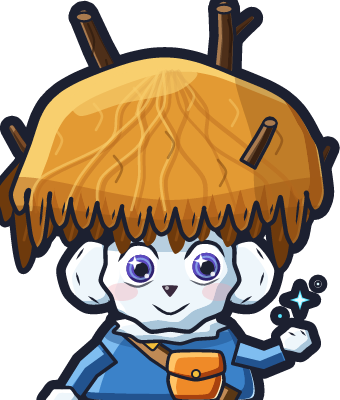
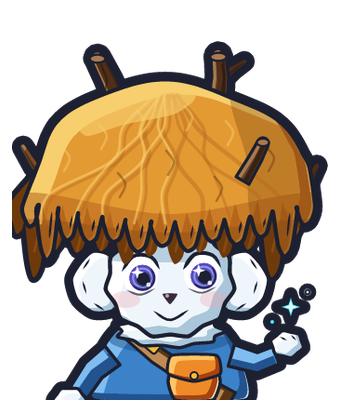
fix(S53): the talk window — the replies sit inside the plate under what is said (they floated over the lobby on the right), no «Página n de m»; the four NPC portraits whole: Aldebrán's sticks and Demon I's wings and Demon III's horn ran past the canvas and showed cut flat (drawn lower / shorter), an

diff --git a/godot/tools/portraits/aldebran_fable.vx.js b/godot/tools/portraits/aldebran_fable.vx.js
@@ -115,9 +115,11 @@ for (let i = 0; i < 9; i++) {
 }
 
 // the sticks: two big branches on top, a stump on the hat's face, twigs on the sides
-const STICK_L = band([[64, 56], [57, 40], [49, 24], [42, 8]], (i, t) => 10.5 - 3 * t)
-const STICK_R = band([[108, 52], [112, 34], [113, 18], [112, 4]], (i, t) => 11 - 3 * t)
-const STICK_RB = band([[112, 22], [120, 14], [126, 9]], (i, t) => 5.5 - 2 * t)      // a side shoot on the right stick
+// S53: the tips end 10-11 units below the canvas top: at y 4-8 their ink ran
+// off the edge and the talk window showed them cut flat
+const STICK_L = band([[64, 56], [58, 42], [52, 28], [46, 16]], (i, t) => 10.5 - 3 * t)
+const STICK_R = band([[108, 52], [111, 38], [112, 26], [111, 15]], (i, t) => 11 - 3 * t)
+const STICK_RB = band([[111, 29], [119, 22], [125, 18]], (i, t) => 5.5 - 2 * t)      // a side shoot on the right stick
 const STUMP = band([[124, 82], [131, 70], [135, 62]], (i, t) => 8 - 2 * t)
 const TWIG_L = band([[22, 84], [12, 74], [6, 64]], (i, t) => 6.5 - 2 * t)
 const TWIG_R = band([[152, 88], [160, 82], [164, 74]], (i, t) => 6 - 2 * t)
@@ -167,15 +169,15 @@ const wood = (P, dir = 1, rim = 1.2) => [
 sprite("aldebran", { w: 164, h: 194, scale: 1, outline: "k", ow: 3 }, tf({ x: -3, y: -3 },
   // ---- behind everything: the sticks that rise out of the hat ----
   ...wood(STICK_L, 1),
-  curve([44, 12, 47, 20, 46, 28], { stroke: "d0", sw: 1.1, opacity: 0.6 }),
-  curve([53, 30, 55, 38], { stroke: "d0", sw: 1.1, opacity: 0.6 }),
+  curve([48, 20, 51, 28, 50, 34], { stroke: "d0", sw: 1.1, opacity: 0.6 }),
+  curve([56, 40, 58, 47], { stroke: "d0", sw: 1.1, opacity: 0.6 }),
   ...wood(STICK_RB, 1, 0.9),
   ...wood(STICK_R, 1),
-  curve([114, 10, 116, 18, 115, 26], { stroke: "d0", sw: 1.1, opacity: 0.6 }),
-  curve([109, 36, 110, 44], { stroke: "d0", sw: 1.1, opacity: 0.6 }),
+  curve([113, 20, 114, 27, 113, 33], { stroke: "d0", sw: 1.1, opacity: 0.6 }),
+  curve([109, 42, 110, 48], { stroke: "d0", sw: 1.1, opacity: 0.6 }),
   // cut ends: a pale ring of fresh wood at the tips
-  ellipse(42, 8.5, 4.2, 2.2, { fill: "d3" }), ellipse(42, 8.5, 4.2, 2.2, EDGE(1.2)),
-  ellipse(112, 4.5, 4.4, 2.2, { fill: "d3" }), ellipse(112, 4.5, 4.4, 2.2, EDGE(1.2)),
+  ellipse(46, 16.5, 4.2, 2.2, { fill: "d3" }), ellipse(46, 16.5, 4.2, 2.2, EDGE(1.2)),
+  ellipse(111, 15.5, 4.4, 2.2, { fill: "d3" }), ellipse(111, 15.5, 4.4, 2.2, EDGE(1.2)),
   ...wood(TWIG_L, -1, 0.9),
   ...wood(TWIG_R, 1, 0.9),
   // ---- the body, the arms ----

diff --git a/godot/tools/portraits/demon1_fable.vx.js b/godot/tools/portraits/demon1_fable.vx.js
@@ -129,7 +129,8 @@ const skull = (dx, dy, st) => blob(sh(SKULL, dx, dy), st)
 // the numeral I: a serifed bar
 const NUM = [74, 164, 96, 164, 96, 169, 89, 170, 89, 189, 96, 190, 96, 195, 74, 195, 74, 190, 81, 189, 81, 170, 74, 169]
 
-sprite("demon1", { w: 164, h: 194, scale: 1, outline: "k", ow: 3 }, tf({ x: -3, y: -3 },
+// S53: drawn 16 units lower: the top ran past the canvas and showed cut flat
+sprite("demon1", { w: 164, h: 194, scale: 1, outline: "k", ow: 3 }, tf({ x: -3, y: 13 },
   // ---- behind everything: the horns ----
   sym(85,
     ...cel(horn, ["n0", "n1", "n2", "n3"], { sd: 6, hd: 7, rim: 2 }),

diff --git a/godot/tools/portraits/demon3_fable.vx.js b/godot/tools/portraits/demon3_fable.vx.js
@@ -173,7 +173,8 @@ function eye(cx, cy, dir, tilt) {
   ]
 }
 
-sprite("demon3", { w: 164, h: 194, scale: 1, outline: "k", ow: 3 }, tf({ x: -3, y: -3 },
+// S53: drawn 16 units lower: the top ran past the canvas and showed cut flat
+sprite("demon3", { w: 164, h: 194, scale: 1, outline: "k", ow: 3 }, tf({ x: -3, y: 13 },
   // ---- the mist, behind everything that is not the robe ----
   // ---- the plume horns, behind the head ----
   sym(85,

diff --git a/godot/tools/portraits/npc_anim.py b/godot/tools/portraits/npc_anim.py
@@ -10,7 +10,14 @@ does the timeline:
     the ink came out muddy, AniCraft does not premultiply);
   - a blink (the lids layer, a hard switch);
   - a sparkle (at the overlay file's `// SPARK_C = [x, y]`) turns and fades.
-48 frames at 24 fps (2 s). Writes per NPC, into OUT/<npc>/, the .anicraft
+48 frames at 24 fps (2 s).
+S53: a portrait that touches the stage's top or sides (Aldebrán's sticks,
+Demon I's wings, Demon III's horn, Nilo's ears) showed cut flat in the talk
+window, the breath lifting it further; fit() moves the figure down (the
+bottom sits under the screen's edge, a cut there never shows) or shrinks it
+about its feet until MARGIN is free, and its overlays and the sparkle follow.
+It also writes the still portrait (<npc>.png) the window shows without the
+sheet. Writes per NPC, into OUT/<npc>/, the .anicraft
 document, a GIF to look at and AniCraft's sprite sheet; then packs the game's
 sheet — every other frame (12 fps, the loop is slow), WebP — as
 assets/ui/portraits/npc/<npc>_idle.webp + .json, which talk_panel.gd plays.
@@ -32,13 +39,16 @@ W, H, FPS, N = 340, 400, 24, 48
 BREATH = 0.012        # how much taller at the top of the breath
 SPARK = 56            # the sparkle sprite's side at 2x
 STEP = 2              # the game keeps every STEP-th frame (24 fps → 12)
+MARGIN = 12           # free 2x pixels at the top and sides (the breath takes 5)
 ASSETS = "assets/ui/portraits/npc"
 # npc → the portrait's render (under <npc dir>) and the frames its lids show
 NPCS = {
     "nilo": {"portrait": "fable/sprites/nilo@2x.png", "blink": (30, 34)},
     "aldebran": {"portrait": "fable_aldebran/sprites/aldebran@2x.png", "blink": (36, 40)},
-    "demon1": {"portrait": "fable_demon1/sprites/demon1@2x.png", "blink": (26, 30)},
-    "demon3": {"portrait": "fable_demon3/sprites/demon3@2x.png", "blink": (32, 36)},
+    # S53: these two portraits are drawn 16 units lower (*_fable.vx.js); their
+    # overlays, drawn where the figure was, follow by `lower` 2x pixels
+    "demon1": {"portrait": "fable_demon1/sprites/demon1@2x.png", "blink": (26, 30), "lower": 32},
+    "demon3": {"portrait": "fable_demon3/sprites/demon3@2x.png", "blink": (32, 36), "lower": 32},
 }
 
 
@@ -96,17 +106,56 @@ def spark_centre(npc):
     return (float(m.group(1)) * 2, float(m.group(2)) * 2)   # 1x → the 2x stage
 
 
+def fit(npc, src, work):
+    """The figure and its overlays moved down / shrunk about the feet so the
+    portrait keeps MARGIN free at the top and sides; returns the file names
+    (under `work`) and the sparkle centre, moved the same way."""
+    cfg = NPCS[npc]
+    names = {"figure": cfg["portrait"], "glow": f"anim/sprites/{npc}_glow@2x.png",
+             "blink": f"anim/sprites/{npc}_blink@2x.png"}
+    fig = Image.open(os.path.join(src, names["figure"])).convert("RGBA")
+    x0, y0, x1, _ = fig.getchannel("A").getbbox()
+    cx = W / 2
+    dy = max(0, MARGIN - y0)   # down first: the cut falls below the screen
+    s = 1.0
+    if x0 < MARGIN:
+        s = min(s, (cx - MARGIN) / (cx - x0))
+    if x1 > W - MARGIN:
+        s = min(s, (W - MARGIN - cx) / (x1 - cx))
+    ox, oy = cx - cx * s, H - H * s + dy
+
+    def move(img, lower=0):
+        if lower:
+            img = img.crop((0, -lower, img.width, img.height - lower))
+        img = img.resize((round(img.width * s), round(img.height * s)), Image.LANCZOS) if s < 1 else img
+        out = Image.new("RGBA", (W, H))
+        out.alpha_composite(img, (round(ox), round(oy)))
+        return out
+    os.makedirs(os.path.join(work, npc), exist_ok=True)
+    files = {}
+    for k, rel in names.items():
+        files[k] = os.path.join(work, npc, k + ".png")
+        lower = 0 if k == "figure" else cfg.get("lower", 0)
+        move(Image.open(os.path.join(src, rel)).convert("RGBA"), lower).save(files[k])
+    c = spark_centre(npc)
+    c = (c[0], c[1] + cfg.get("lower", 0))
+    still = move(fig)
+    still.save(f"{ASSETS}/{npc}.png")
+    return files, (ox + c[0] * s, oy + c[1] * s), (s, dy)
+
+
 def animate(npc, src, out):
     cfg = NPCS[npc]
-    c = spark_centre(npc)
+    files, c, how = fit(npc, src, out)
+    print(f"{npc}: fit scale {how[0]:.3f}, down {how[1]} px")
     a = AniCraft()
     a("doc.set_stage", width=W, height=H, fps=FPS, background="#ffffff")
     layers = {}
-    for name, path, at in [("figure", cfg["portrait"], {"x": 0, "y": 0}),
-                           ("glow", f"anim/sprites/{npc}_glow@2x.png", {"x": 0, "y": 0}),
-                           ("blink", f"anim/sprites/{npc}_blink@2x.png", {"x": 0, "y": 0}),
-                           ("spark", f"anim/sprites/{npc}_spark@2x.png", {"cx": c[0], "cy": c[1]})]:
-        r = a("file.import", path=os.path.join(src, path), **at)
+    for name, path, at in [("figure", files["figure"], {"x": 0, "y": 0}),
+                           ("glow", files["glow"], {"x": 0, "y": 0}),
+                           ("blink", files["blink"], {"x": 0, "y": 0}),
+                           ("spark", os.path.join(src, f"anim/sprites/{npc}_spark@2x.png"), {"cx": c[0], "cy": c[1]})]:
+        r = a("file.import", path=os.path.abspath(path), **at)
         layers[name] = r["layer"]
         a("layer.rename", layer=r["layer"], name=name)
     for l in a("doc.info")["layers"]:   # the empty layer a new document has
